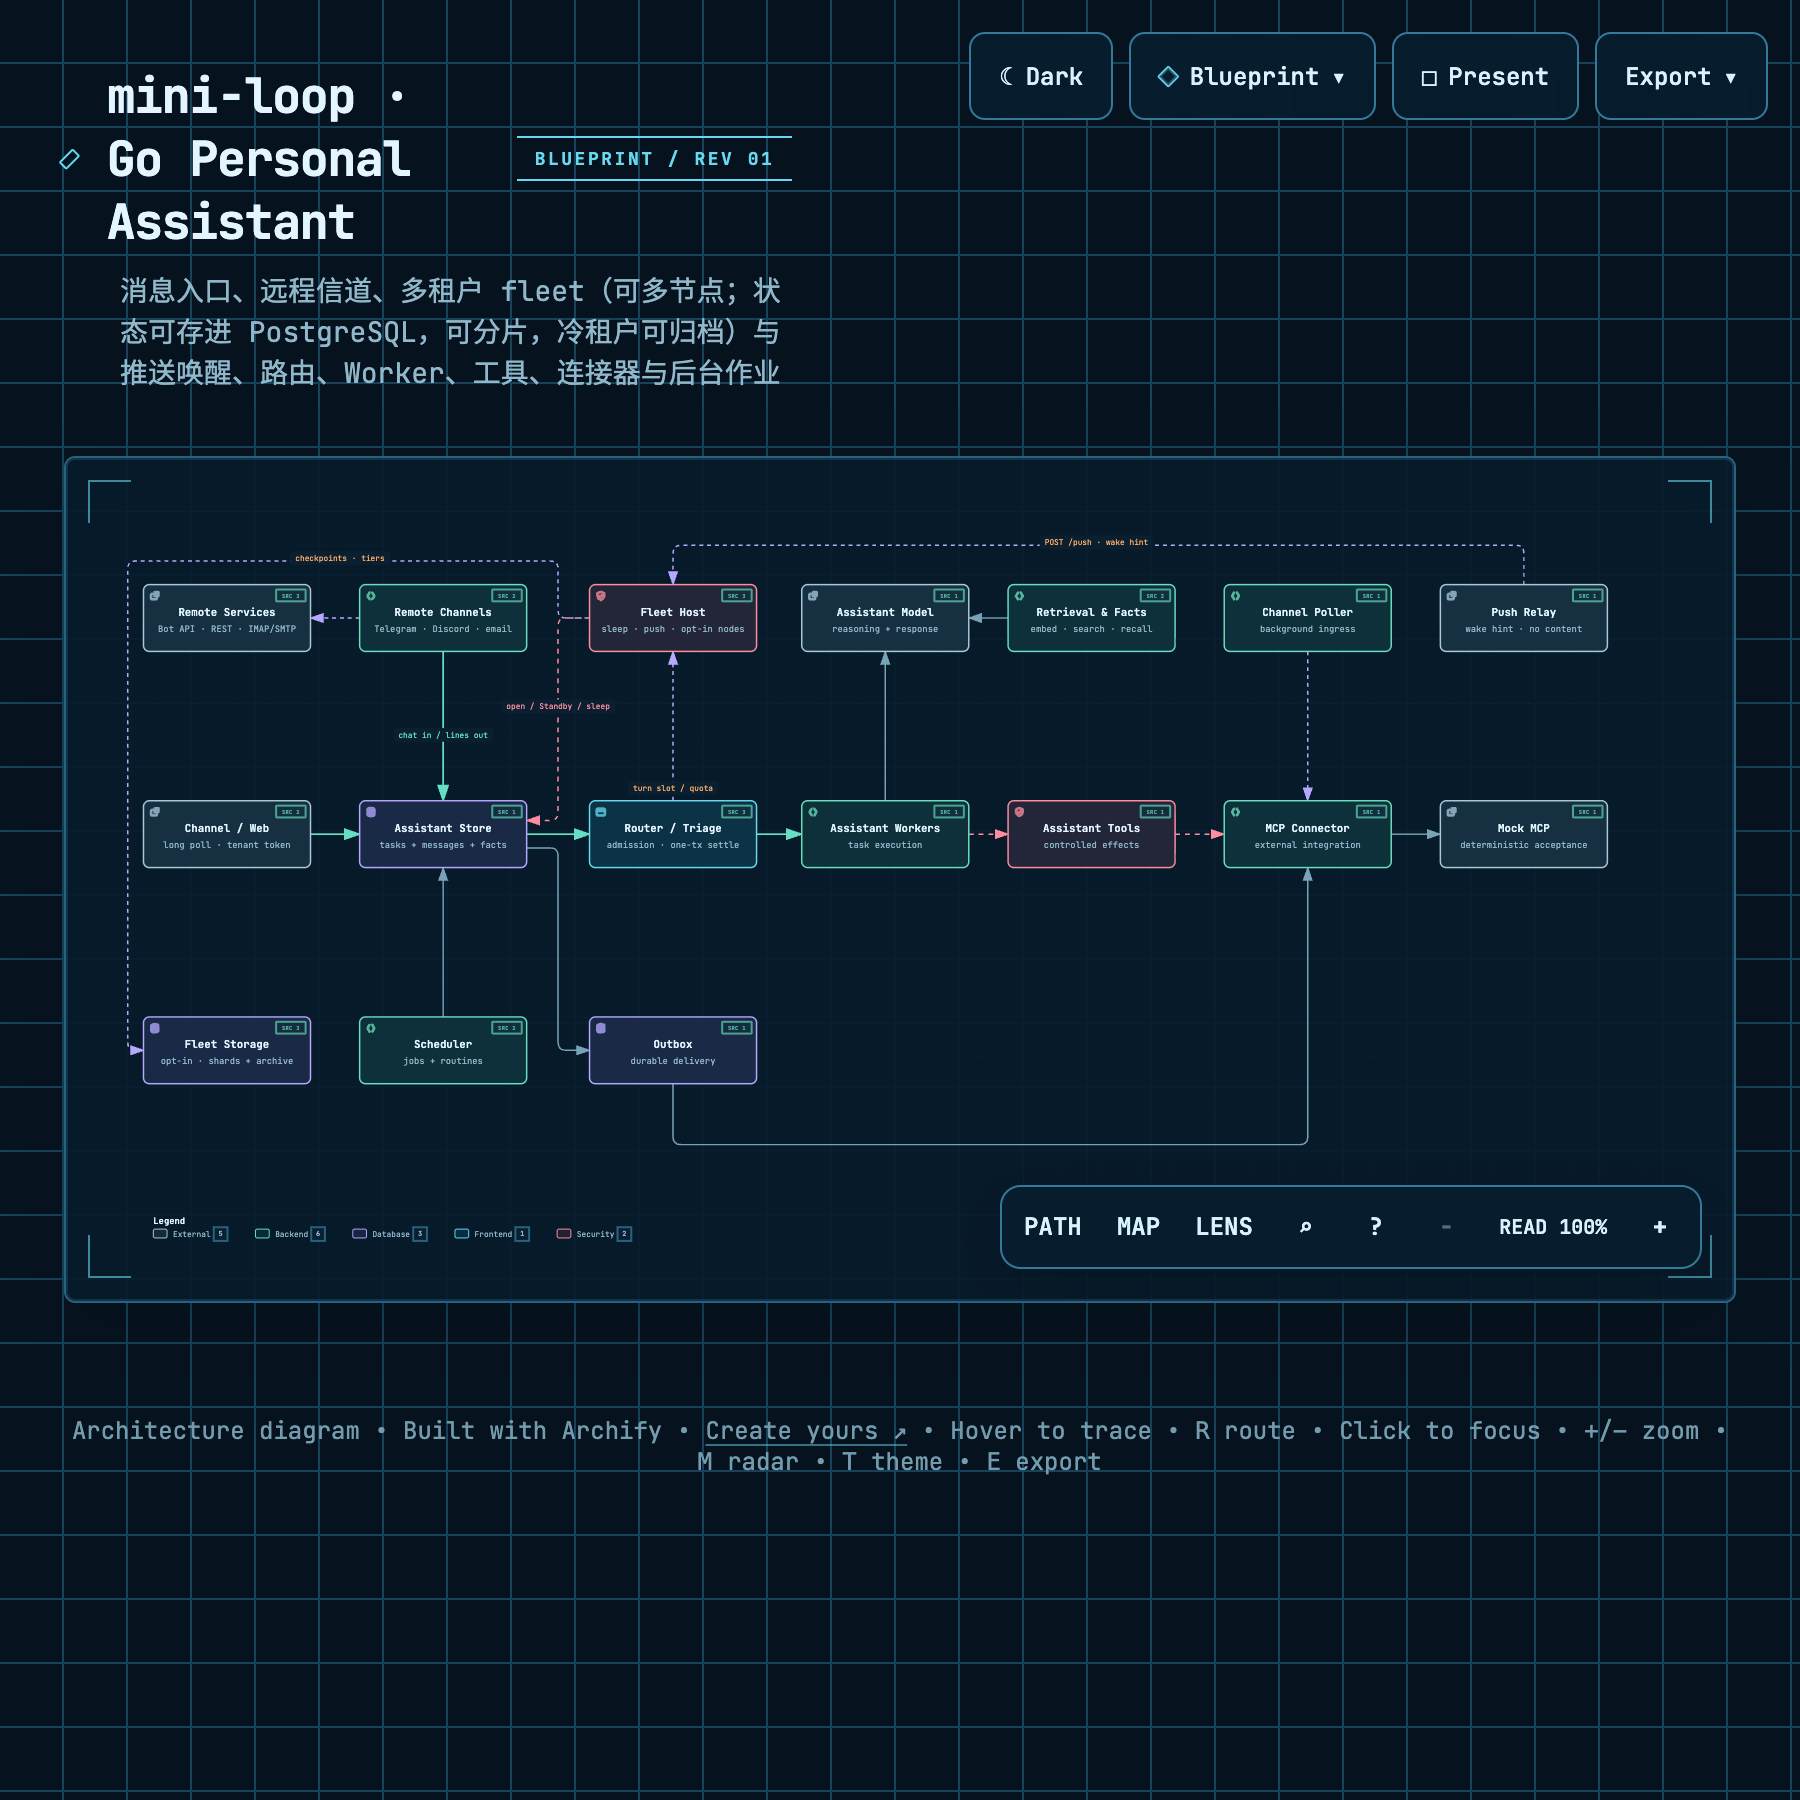
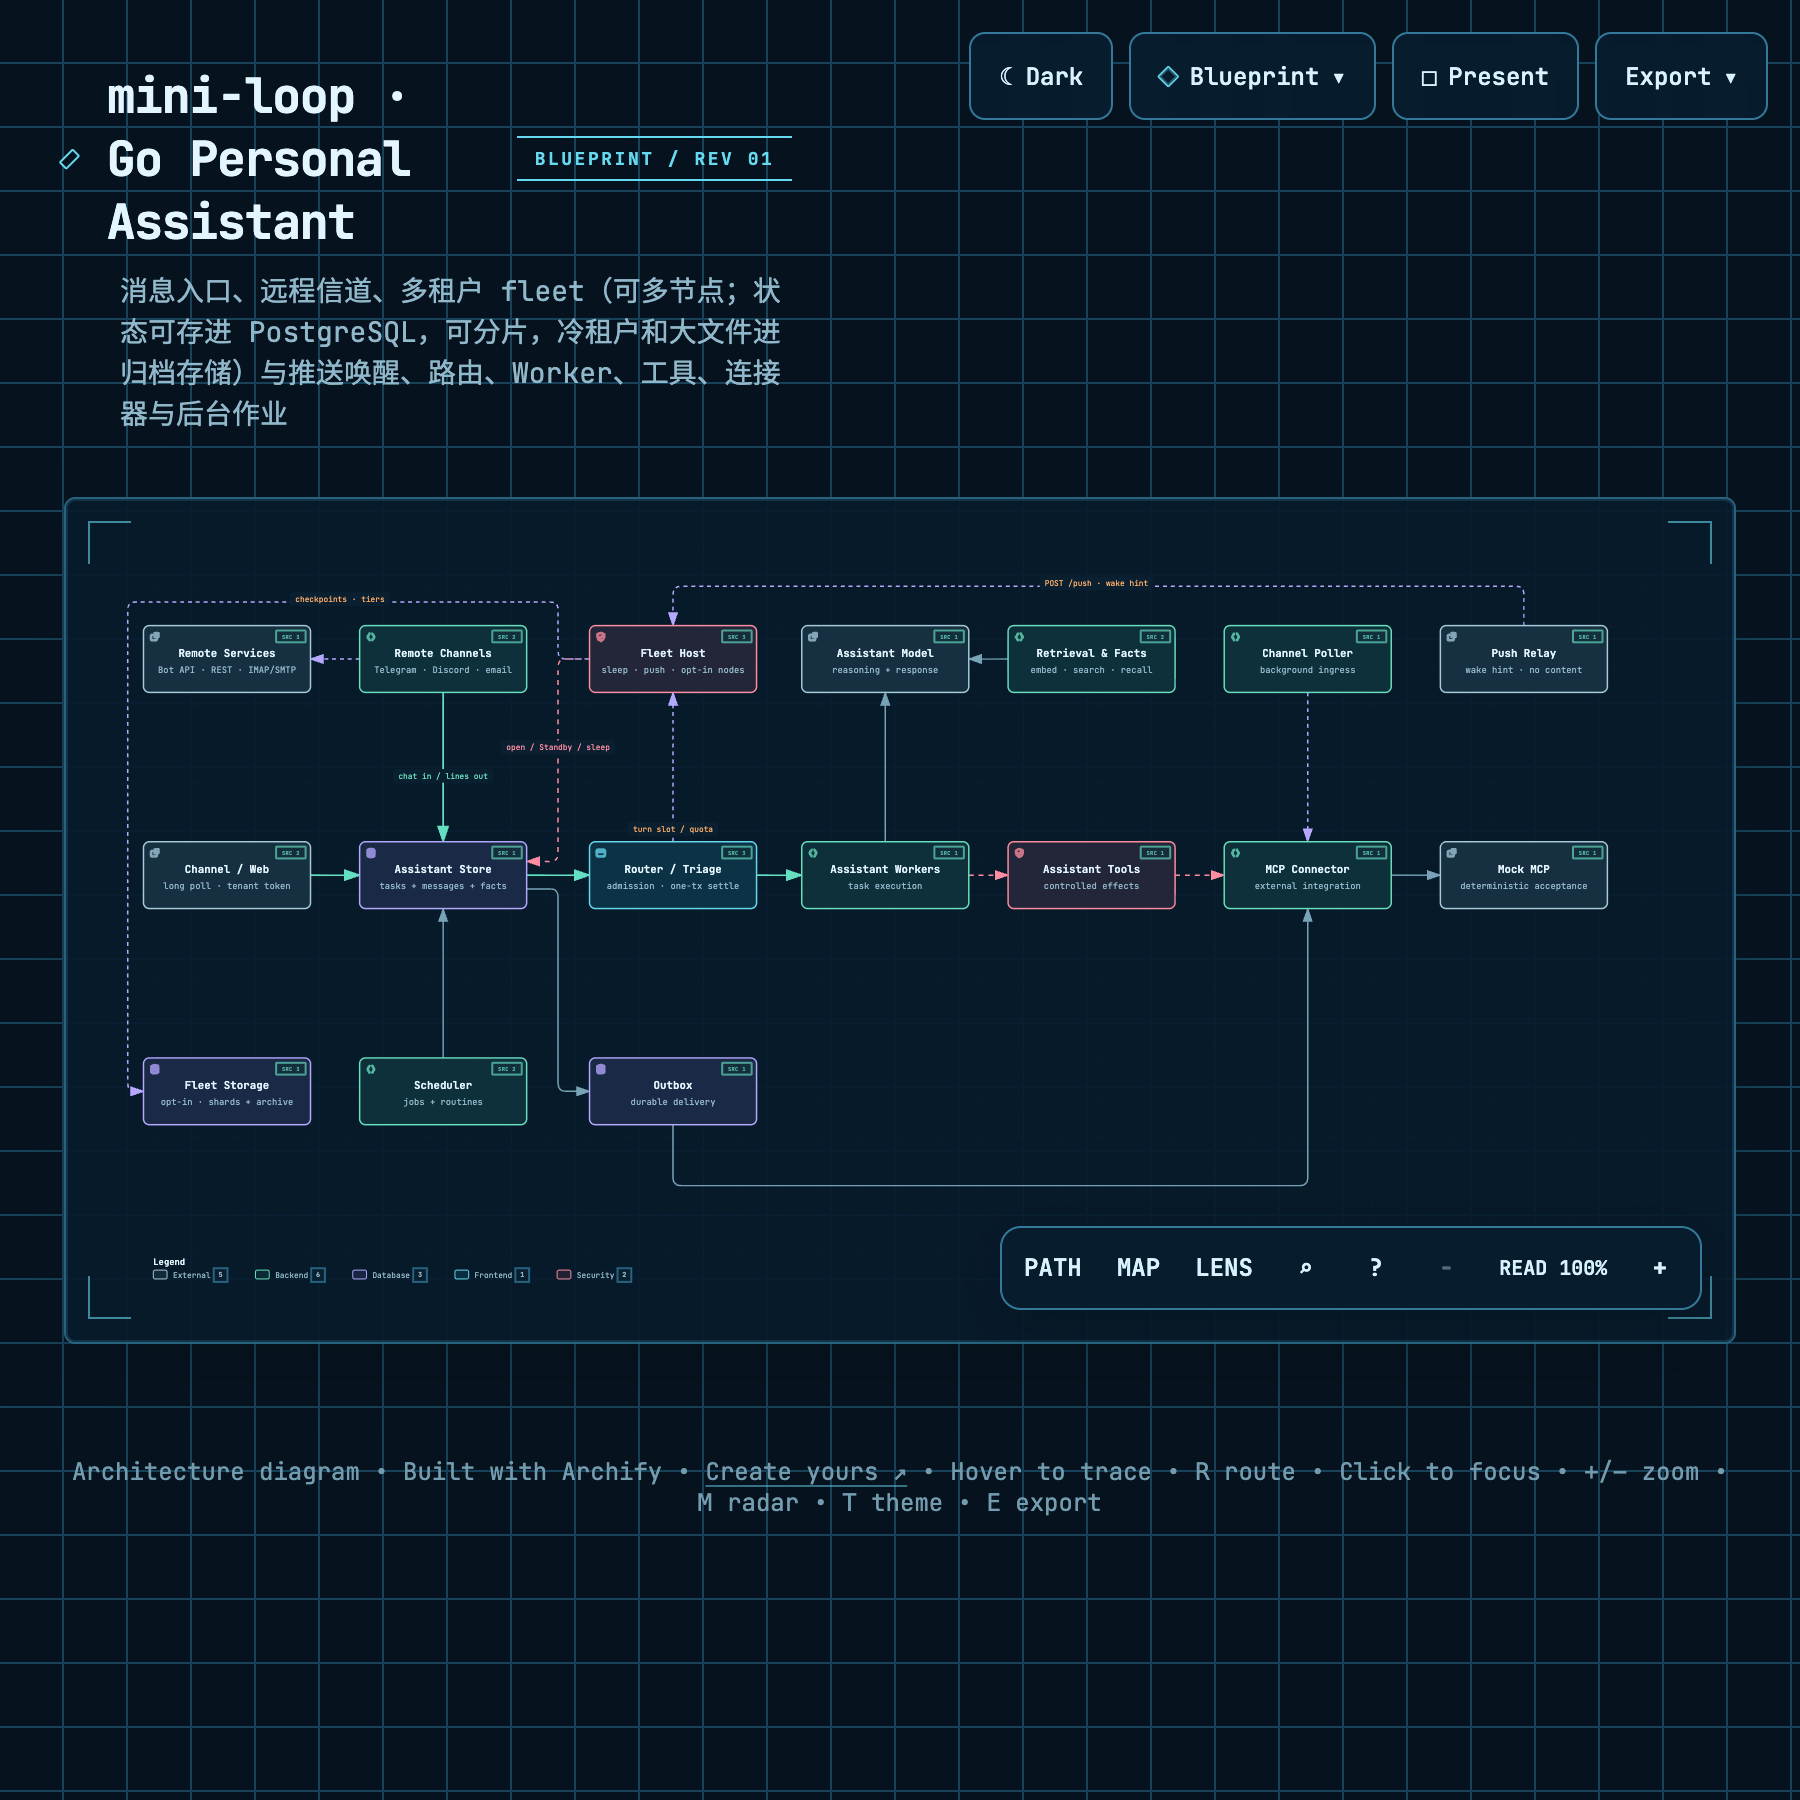
docs(architecture): show large files in the personal-assistant view
The view now pins 22b59f5, which adds fleet_files.go, and its subtitle
says that cold tenants and large files go to the archive store. Archify
verified its 29 source references at that revision.

Claude-Session: https://claude.ai/code/session_011bYGPJ5pexbat7kUKn2czE

diff --git a/docs/architecture/personal-assistant.html b/docs/architecture/personal-assistant.html
@@ -4498,11 +4498,11 @@
         <div class="pulse-dot"></div>
         <h1>mini-loop · Go Personal Assistant</h1>
       </div>
-      <p class="subtitle">消息入口、远程信道、多租户 fleet（可多节点；状态可存进 PostgreSQL，可分片，冷租户可归档）与推送唤醒、路由、Worker、工具、连接器与后台作业</p>
+      <p class="subtitle">消息入口、远程信道、多租户 fleet（可多节点；状态可存进 PostgreSQL，可分片，冷租户和大文件进归档存储）与推送唤醒、路由、Worker、工具、连接器与后台作业</p>
     </div>
 
     <script id="archify-guided-views-data" type="application/json">[]</script>
-    <script id="archify-source-evidence-data" type="application/json">{"schemaVersion":1,"verified":true,"repository":{"url":"https://github.com/luoyjx/mini-loop","revision":"6b57d05b4f814bf85aaf26ccdffe676ab0d2a67c","shortRevision":"6b57d05"},"referenceCount":29,"nodes":{"channel":[{"path":"go/assistant/server.go","href":"https://github.com/luoyjx/mini-loop/blob/6b57d05b4f814bf85aaf26ccdffe676ab0d2a67c/go/assistant/server.go"},{"path":"go/assistant/changes.go","href":"https://github.com/luoyjx/mini-loop/blob/6b57d05b4f814bf85aaf26ccdffe676ab0d2a67c/go/assistant/changes.go"}],"remoteSvc":[{"path":"go/assistant/telegram.go","href":"https://github.com/luoyjx/mini-loop/blob/6b57d05b4f814bf85aaf26ccdffe676ab0d2a67c/go/assistant/telegram.go"},{"path":"go/assistant/discord.go","href":"https://github.com/luoyjx/mini-loop/blob/6b57d05b4f814bf85aaf26ccdffe676ab0d2a67c/go/assistant/discord.go"},{"path":"go/assistant/imap.go","href":"https://github.com/luoyjx/mini-loop/blob/6b57d05b4f814bf85aaf26ccdffe676ab0d2a67c/go/assistant/imap.go"}],"remote":[{"path":"go/assistant/remote.go","href":"https://github.com/luoyjx/mini-loop/blob/6b57d05b4f814bf85aaf26ccdffe676ab0d2a67c/go/assistant/remote.go"},{"path":"go/assistant/email.go","href":"https://github.com/luoyjx/mini-loop/blob/6b57d05b4f814bf85aaf26ccdffe676ab0d2a67c/go/assistant/email.go"}],"store":[{"path":"go/assistant/store.go","href":"https://github.com/luoyjx/mini-loop/blob/6b57d05b4f814bf85aaf26ccdffe676ab0d2a67c/go/assistant/store.go"}],"router":[{"path":"go/assistant/router.go","href":"https://github.com/luoyjx/mini-loop/blob/6b57d05b4f814bf85aaf26ccdffe676ab0d2a67c/go/assistant/router.go"},{"path":"go/assistant/triage.go","href":"https://github.com/luoyjx/mini-loop/blob/6b57d05b4f814bf85aaf26ccdffe676ab0d2a67c/go/assistant/triage.go"},{"path":"go/assistant/settle.go","href":"https://github.com/luoyjx/mini-loop/blob/6b57d05b4f814bf85aaf26ccdffe676ab0d2a67c/go/assistant/settle.go"}],"workers":[{"path":"go/assistant/tasks.go","href":"https://github.com/luoyjx/mini-loop/blob/6b57d05b4f814bf85aaf26ccdffe676ab0d2a67c/go/assistant/tasks.go"}],"tools":[{"path":"go/assistant/tools.go","href":"https://github.com/luoyjx/mini-loop/blob/6b57d05b4f814bf85aaf26ccdffe676ab0d2a67c/go/assistant/tools.go"}],"connector":[{"path":"go/assistant/connector.go","href":"https://github.com/luoyjx/mini-loop/blob/6b57d05b4f814bf85aaf26ccdffe676ab0d2a67c/go/assistant/connector.go"}],"mock":[{"path":"go/assistant/mockmcp.go","href":"https://github.com/luoyjx/mini-loop/blob/6b57d05b4f814bf85aaf26ccdffe676ab0d2a67c/go/assistant/mockmcp.go"}],"model":[{"path":"go/assistant/model.go","href":"https://github.com/luoyjx/mini-loop/blob/6b57d05b4f814bf85aaf26ccdffe676ab0d2a67c/go/assistant/model.go"}],"retrieval":[{"path":"go/assistant/retrieval.go","href":"https://github.com/luoyjx/mini-loop/blob/6b57d05b4f814bf85aaf26ccdffe676ab0d2a67c/go/assistant/retrieval.go"},{"path":"go/assistant/facts.go","href":"https://github.com/luoyjx/mini-loop/blob/6b57d05b4f814bf85aaf26ccdffe676ab0d2a67c/go/assistant/facts.go"}],"poller":[{"path":"go/assistant/poller.go","href":"https://github.com/luoyjx/mini-loop/blob/6b57d05b4f814bf85aaf26ccdffe676ab0d2a67c/go/assistant/poller.go"}],"scheduler":[{"path":"go/assistant/jobs.go","href":"https://github.com/luoyjx/mini-loop/blob/6b57d05b4f814bf85aaf26ccdffe676ab0d2a67c/go/assistant/jobs.go"},{"path":"go/assistant/routines.go","href":"https://github.com/luoyjx/mini-loop/blob/6b57d05b4f814bf85aaf26ccdffe676ab0d2a67c/go/assistant/routines.go"}],"fleet":[{"path":"go/assistant/fleet.go","href":"https://github.com/luoyjx/mini-loop/blob/6b57d05b4f814bf85aaf26ccdffe676ab0d2a67c/go/assistant/fleet.go"},{"path":"go/assistant/fleet_cluster.go","href":"https://github.com/luoyjx/mini-loop/blob/6b57d05b4f814bf85aaf26ccdffe676ab0d2a67c/go/assistant/fleet_cluster.go"},{"path":"go/assistant/fleet_budget.go","href":"https://github.com/luoyjx/mini-loop/blob/6b57d05b4f814bf85aaf26ccdffe676ab0d2a67c/go/assistant/fleet_budget.go"}],"vault":[{"path":"go/assistant/fleet_vault.go","href":"https://github.com/luoyjx/mini-loop/blob/6b57d05b4f814bf85aaf26ccdffe676ab0d2a67c/go/assistant/fleet_vault.go"},{"path":"go/assistant/fleet_shards.go","href":"https://github.com/luoyjx/mini-loop/blob/6b57d05b4f814bf85aaf26ccdffe676ab0d2a67c/go/assistant/fleet_shards.go"},{"path":"go/assistant/fleet_cold.go","href":"https://github.com/luoyjx/mini-loop/blob/6b57d05b4f814bf85aaf26ccdffe676ab0d2a67c/go/assistant/fleet_cold.go"}],"push":[{"path":"go/assistant/fleet_http.go","href":"https://github.com/luoyjx/mini-loop/blob/6b57d05b4f814bf85aaf26ccdffe676ab0d2a67c/go/assistant/fleet_http.go"}],"outbox":[{"path":"go/assistant/outbox.go","href":"https://github.com/luoyjx/mini-loop/blob/6b57d05b4f814bf85aaf26ccdffe676ab0d2a67c/go/assistant/outbox.go"}]}}</script>
+    <script id="archify-source-evidence-data" type="application/json">{"schemaVersion":1,"verified":true,"repository":{"url":"https://github.com/luoyjx/mini-loop","revision":"22b59f5cc513a174c0828cd5548da7fc0ac60f98","shortRevision":"22b59f5"},"referenceCount":29,"nodes":{"channel":[{"path":"go/assistant/server.go","href":"https://github.com/luoyjx/mini-loop/blob/22b59f5cc513a174c0828cd5548da7fc0ac60f98/go/assistant/server.go"},{"path":"go/assistant/changes.go","href":"https://github.com/luoyjx/mini-loop/blob/22b59f5cc513a174c0828cd5548da7fc0ac60f98/go/assistant/changes.go"}],"remoteSvc":[{"path":"go/assistant/telegram.go","href":"https://github.com/luoyjx/mini-loop/blob/22b59f5cc513a174c0828cd5548da7fc0ac60f98/go/assistant/telegram.go"},{"path":"go/assistant/discord.go","href":"https://github.com/luoyjx/mini-loop/blob/22b59f5cc513a174c0828cd5548da7fc0ac60f98/go/assistant/discord.go"},{"path":"go/assistant/imap.go","href":"https://github.com/luoyjx/mini-loop/blob/22b59f5cc513a174c0828cd5548da7fc0ac60f98/go/assistant/imap.go"}],"remote":[{"path":"go/assistant/remote.go","href":"https://github.com/luoyjx/mini-loop/blob/22b59f5cc513a174c0828cd5548da7fc0ac60f98/go/assistant/remote.go"},{"path":"go/assistant/email.go","href":"https://github.com/luoyjx/mini-loop/blob/22b59f5cc513a174c0828cd5548da7fc0ac60f98/go/assistant/email.go"}],"store":[{"path":"go/assistant/store.go","href":"https://github.com/luoyjx/mini-loop/blob/22b59f5cc513a174c0828cd5548da7fc0ac60f98/go/assistant/store.go"}],"router":[{"path":"go/assistant/router.go","href":"https://github.com/luoyjx/mini-loop/blob/22b59f5cc513a174c0828cd5548da7fc0ac60f98/go/assistant/router.go"},{"path":"go/assistant/triage.go","href":"https://github.com/luoyjx/mini-loop/blob/22b59f5cc513a174c0828cd5548da7fc0ac60f98/go/assistant/triage.go"},{"path":"go/assistant/settle.go","href":"https://github.com/luoyjx/mini-loop/blob/22b59f5cc513a174c0828cd5548da7fc0ac60f98/go/assistant/settle.go"}],"workers":[{"path":"go/assistant/tasks.go","href":"https://github.com/luoyjx/mini-loop/blob/22b59f5cc513a174c0828cd5548da7fc0ac60f98/go/assistant/tasks.go"}],"tools":[{"path":"go/assistant/tools.go","href":"https://github.com/luoyjx/mini-loop/blob/22b59f5cc513a174c0828cd5548da7fc0ac60f98/go/assistant/tools.go"}],"connector":[{"path":"go/assistant/connector.go","href":"https://github.com/luoyjx/mini-loop/blob/22b59f5cc513a174c0828cd5548da7fc0ac60f98/go/assistant/connector.go"}],"mock":[{"path":"go/assistant/mockmcp.go","href":"https://github.com/luoyjx/mini-loop/blob/22b59f5cc513a174c0828cd5548da7fc0ac60f98/go/assistant/mockmcp.go"}],"model":[{"path":"go/assistant/model.go","href":"https://github.com/luoyjx/mini-loop/blob/22b59f5cc513a174c0828cd5548da7fc0ac60f98/go/assistant/model.go"}],"retrieval":[{"path":"go/assistant/retrieval.go","href":"https://github.com/luoyjx/mini-loop/blob/22b59f5cc513a174c0828cd5548da7fc0ac60f98/go/assistant/retrieval.go"},{"path":"go/assistant/facts.go","href":"https://github.com/luoyjx/mini-loop/blob/22b59f5cc513a174c0828cd5548da7fc0ac60f98/go/assistant/facts.go"}],"poller":[{"path":"go/assistant/poller.go","href":"https://github.com/luoyjx/mini-loop/blob/22b59f5cc513a174c0828cd5548da7fc0ac60f98/go/assistant/poller.go"}],"scheduler":[{"path":"go/assistant/jobs.go","href":"https://github.com/luoyjx/mini-loop/blob/22b59f5cc513a174c0828cd5548da7fc0ac60f98/go/assistant/jobs.go"},{"path":"go/assistant/routines.go","href":"https://github.com/luoyjx/mini-loop/blob/22b59f5cc513a174c0828cd5548da7fc0ac60f98/go/assistant/routines.go"}],"fleet":[{"path":"go/assistant/fleet.go","href":"https://github.com/luoyjx/mini-loop/blob/22b59f5cc513a174c0828cd5548da7fc0ac60f98/go/assistant/fleet.go"},{"path":"go/assistant/fleet_cluster.go","href":"https://github.com/luoyjx/mini-loop/blob/22b59f5cc513a174c0828cd5548da7fc0ac60f98/go/assistant/fleet_cluster.go"},{"path":"go/assistant/fleet_budget.go","href":"https://github.com/luoyjx/mini-loop/blob/22b59f5cc513a174c0828cd5548da7fc0ac60f98/go/assistant/fleet_budget.go"}],"vault":[{"path":"go/assistant/fleet_vault.go","href":"https://github.com/luoyjx/mini-loop/blob/22b59f5cc513a174c0828cd5548da7fc0ac60f98/go/assistant/fleet_vault.go"},{"path":"go/assistant/fleet_shards.go","href":"https://github.com/luoyjx/mini-loop/blob/22b59f5cc513a174c0828cd5548da7fc0ac60f98/go/assistant/fleet_shards.go"},{"path":"go/assistant/fleet_cold.go","href":"https://github.com/luoyjx/mini-loop/blob/22b59f5cc513a174c0828cd5548da7fc0ac60f98/go/assistant/fleet_cold.go"}],"push":[{"path":"go/assistant/fleet_http.go","href":"https://github.com/luoyjx/mini-loop/blob/22b59f5cc513a174c0828cd5548da7fc0ac60f98/go/assistant/fleet_http.go"}],"outbox":[{"path":"go/assistant/outbox.go","href":"https://github.com/luoyjx/mini-loop/blob/22b59f5cc513a174c0828cd5548da7fc0ac60f98/go/assistant/outbox.go"}]}}</script>
     <div class="guided-views no-print" id="guided-views" hidden aria-label="Guided diagram views">
       <button id="guided-view-prev" type="button" aria-label="Previous guided view" title="Previous guided view ([)">&#8592;</button>
       <div class="guided-view-copy">
@@ -4546,7 +4546,7 @@
     <div class="diagram-container" data-detail-level="read">
       <svg viewBox="0 0 1600 760" role="img" aria-labelledby="archify-diagram-title archify-diagram-description" data-preset="blueprint" data-quality-profile="showcase">
         <title id="archify-diagram-title">mini-loop · Go Personal Assistant</title>
-        <desc id="archify-diagram-description">消息入口、远程信道、多租户 fleet（可多节点；状态可存进 PostgreSQL，可分片，冷租户可归档）与推送唤醒、路由、Worker、工具、连接器与后台作业</desc>
+        <desc id="archify-diagram-description">消息入口、远程信道、多租户 fleet（可多节点；状态可存进 PostgreSQL，可分片，冷租户和大文件进归档存储）与推送唤醒、路由、Worker、工具、连接器与后台作业</desc>
         <!-- Definitions -->
         <defs>
           <marker id="arrowhead" markerWidth="10" markerHeight="7" refX="9" refY="3.5" orient="auto">

diff --git a/docs/architecture/README.md b/docs/architecture/README.md
@@ -76,3 +76,13 @@ Storage, "opt-in · shards + archive", and cites `fleet_vault.go`,
 zero warnings, and Archify verified its 29 source references at that revision.
 Its 1800 px PNG was re-rendered from a 900 px dark-theme viewport at 2x, and no
 node's text leaves its box.
+
+After D16 kept the bulk of a tenant's large files in the archive store, the Go
+personal-assistant view was revalidated against revision
+`22b59f5cc513a174c0828cd5548da7fc0ac60f98`. Only its subtitle changed: cold
+tenants and large files go to the archive store. Fleet Storage keeps its three
+sources, and its edge from the Fleet Host, "checkpoints · tiers", now covers the
+tier by size as well as by age. The view passed all nine checks with zero
+errors and zero warnings, and Archify verified its 29 source references at that
+revision. Its 1800 px PNG was re-rendered from a 900 px dark-theme viewport at
+2x, and no node's text leaves its box.
